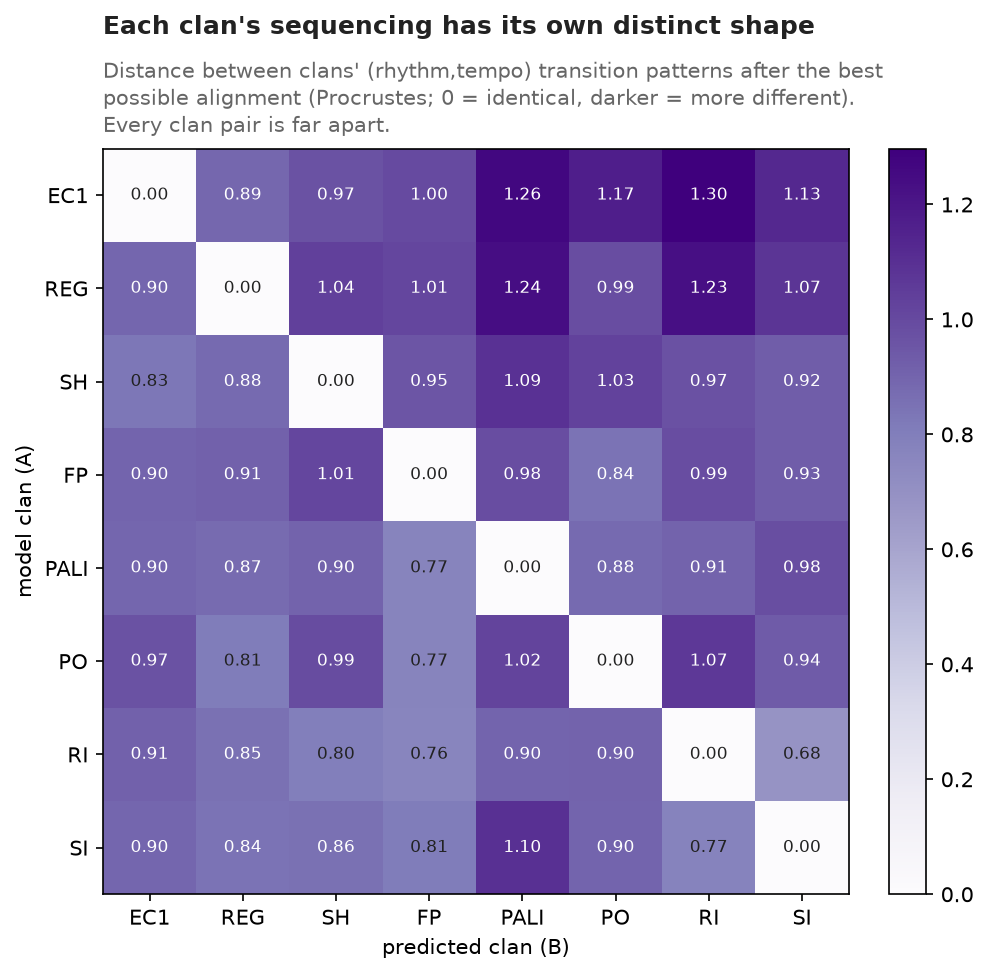
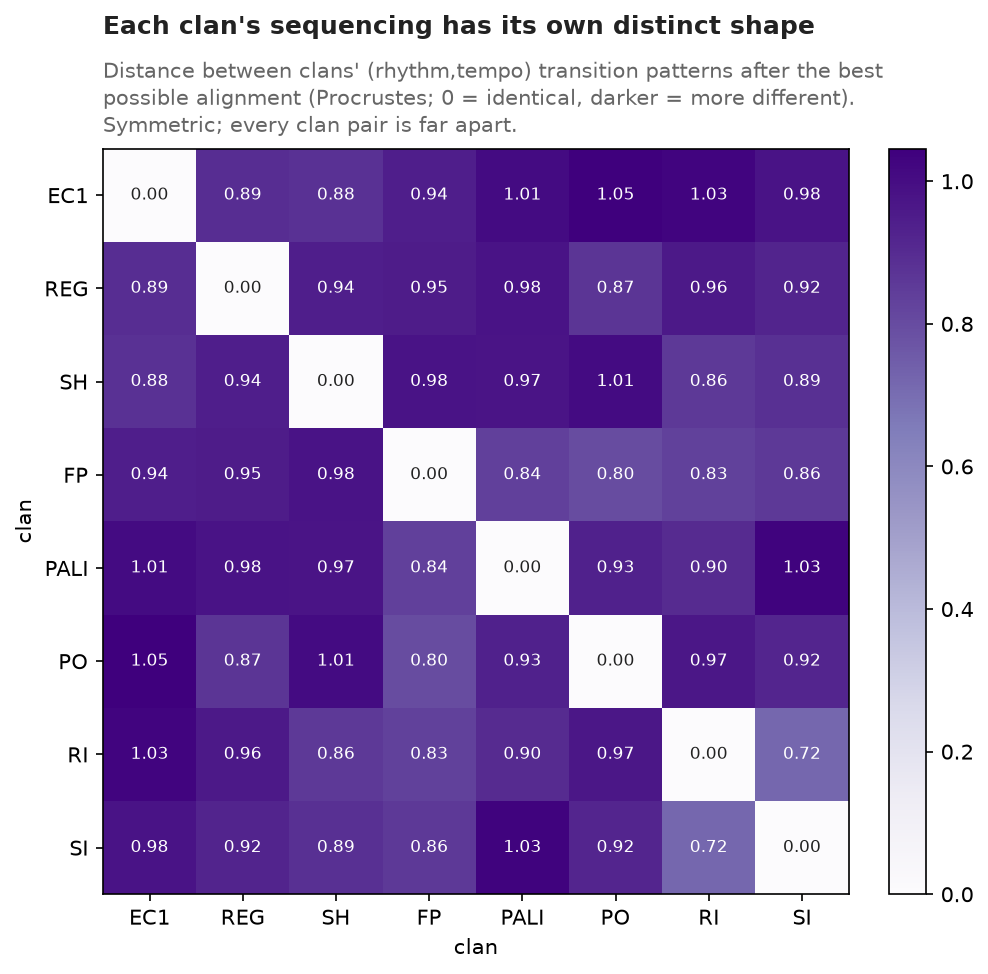
Fix Procrustes distance to be symmetric (figure 5)
The clan-geometry distance was dividing the rotation-aligned residual by the target
clan's embedding norm, so D[A,B] != D[B,A] (e.g. EC1<->SH read 0.97 vs 0.83) — wrong
for something labelled a distance. Unit-normalize each embedding before aligning:
the residual between two unit-norm matrices is symmetric by construction (max
|D - D.T| now 0.0, zero diagonal). Conclusion unchanged — every clan pair 0.7-1.05
apart. Also relabel figure 5's axes "clan"/"clan" (a symmetric distance has no
model/predicted direction; those labels are correct only on the cross-prediction
heatmap).

diff --git a/src/coda_recovery/clan_similarity.py b/src/coda_recovery/clan_similarity.py
@@ -100,22 +100,29 @@ def procrustes_distances(pairs):
         PMI = np.log(P / (pi * pj))
         U, S, _ = np.linalg.svd(PMI)
         emb[c] = U[:, :EMB_D] * np.sqrt(S[:EMB_D])
+    # Scale each embedding to unit Frobenius norm BEFORE aligning, so the distance
+    # is symmetric (D[A,B] == D[B,A]) and scale-free. Dividing the residual by the
+    # target's norm — as an earlier version did — broke symmetry, because clans'
+    # embeddings differ in magnitude. The rotation-aligned residual between two
+    # unit-norm matrices is symmetric by construction.
+    en = {c: e / np.linalg.norm(e) for c, e in emb.items()}
     clans = CLAN_ORDER
     D = np.zeros((len(clans), len(clans)))
     for i, A in enumerate(clans):
         for j, B in enumerate(clans):
-            R, _ = orthogonal_procrustes(emb[A], emb[B])
-            D[i, j] = np.linalg.norm(emb[A] @ R - emb[B]) / np.linalg.norm(emb[B])
+            R, _ = orthogonal_procrustes(en[A], en[B])
+            D[i, j] = np.linalg.norm(en[A] @ R - en[B])
     return D
 
 
-def _heatmap(M, title, sub, fname, cmap, fmt="{:+.2f}", norm=None):
+def _heatmap(M, title, sub, fname, cmap, fmt="{:+.2f}", norm=None,
+             xlabel="predicted clan (B)", ylabel="model clan (A)"):
     clans = CLAN_ORDER
     fig, ax = plt.subplots(figsize=(7.6, 6.6))
     im = ax.imshow(M, cmap=cmap, norm=norm)
     ax.set_xticks(range(len(clans))); ax.set_xticklabels(clans, fontsize=10)
     ax.set_yticks(range(len(clans))); ax.set_yticklabels(clans, fontsize=10)
-    ax.set_xlabel("predicted clan (B)"); ax.set_ylabel("model clan (A)")
+    ax.set_xlabel(xlabel); ax.set_ylabel(ylabel)
     for i in range(len(clans)):
         for j in range(len(clans)):
             v = M[i, j]
@@ -177,8 +184,8 @@ def main():
     # Procrustes distance is sequential magnitude (0 = identical): one hue, light→dark.
     _heatmap(D, "Each clan's sequencing has its own distinct shape",
              "Distance between clans' (rhythm,tempo) transition patterns after the best possible "
-             "alignment (Procrustes; 0 = identical, darker = more different). Every clan pair is far apart.",
-             "5_grammar_geometry.png", "Purples", fmt="{:.2f}")
+             "alignment (Procrustes; 0 = identical, darker = more different). Symmetric; every clan pair is far apart.",
+             "5_grammar_geometry.png", "Purples", fmt="{:.2f}", xlabel="clan", ylabel="clan")
     print("\nwrote results/clan_similarity.csv, figures plain/4 & plain/5")
 
 
